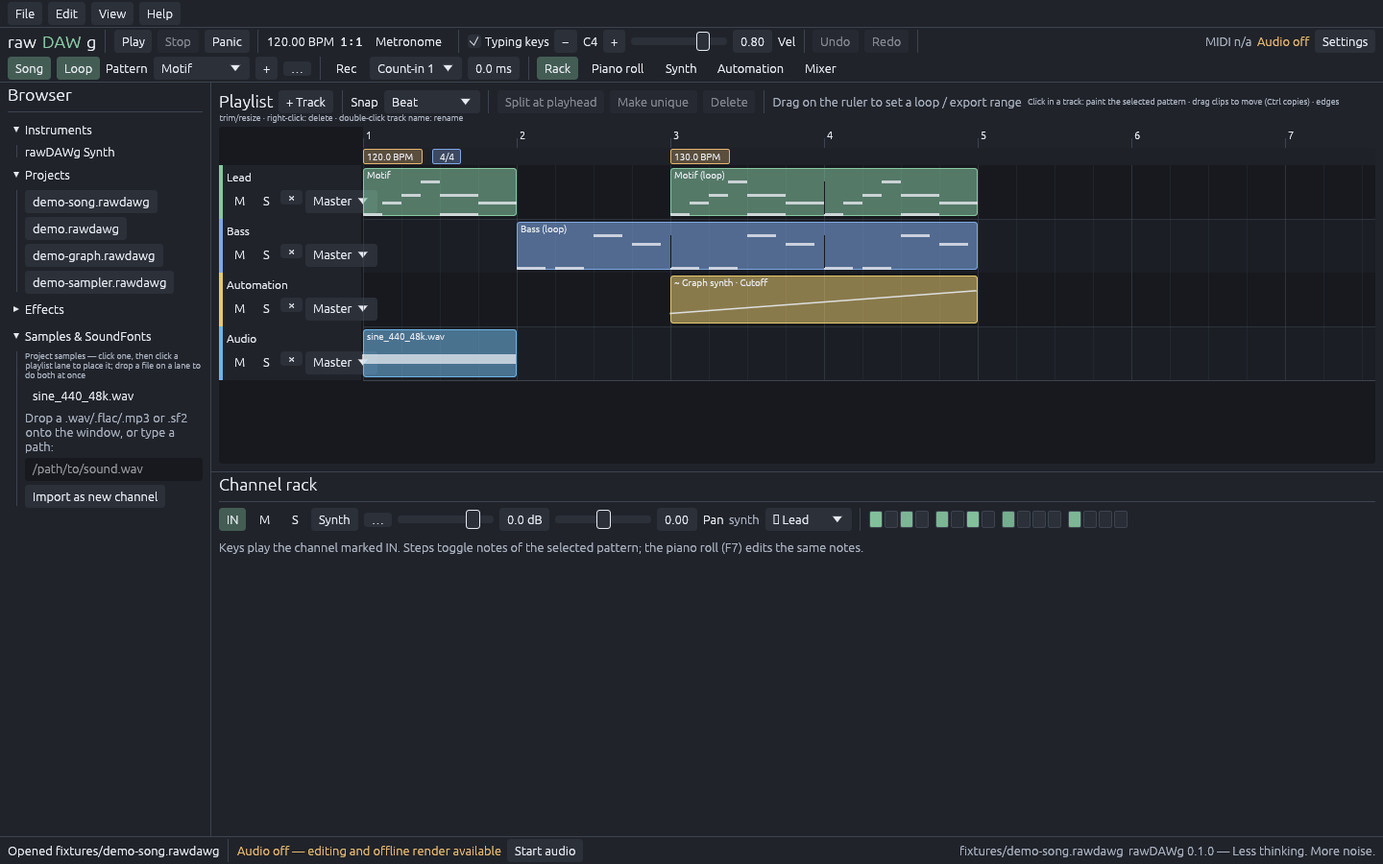
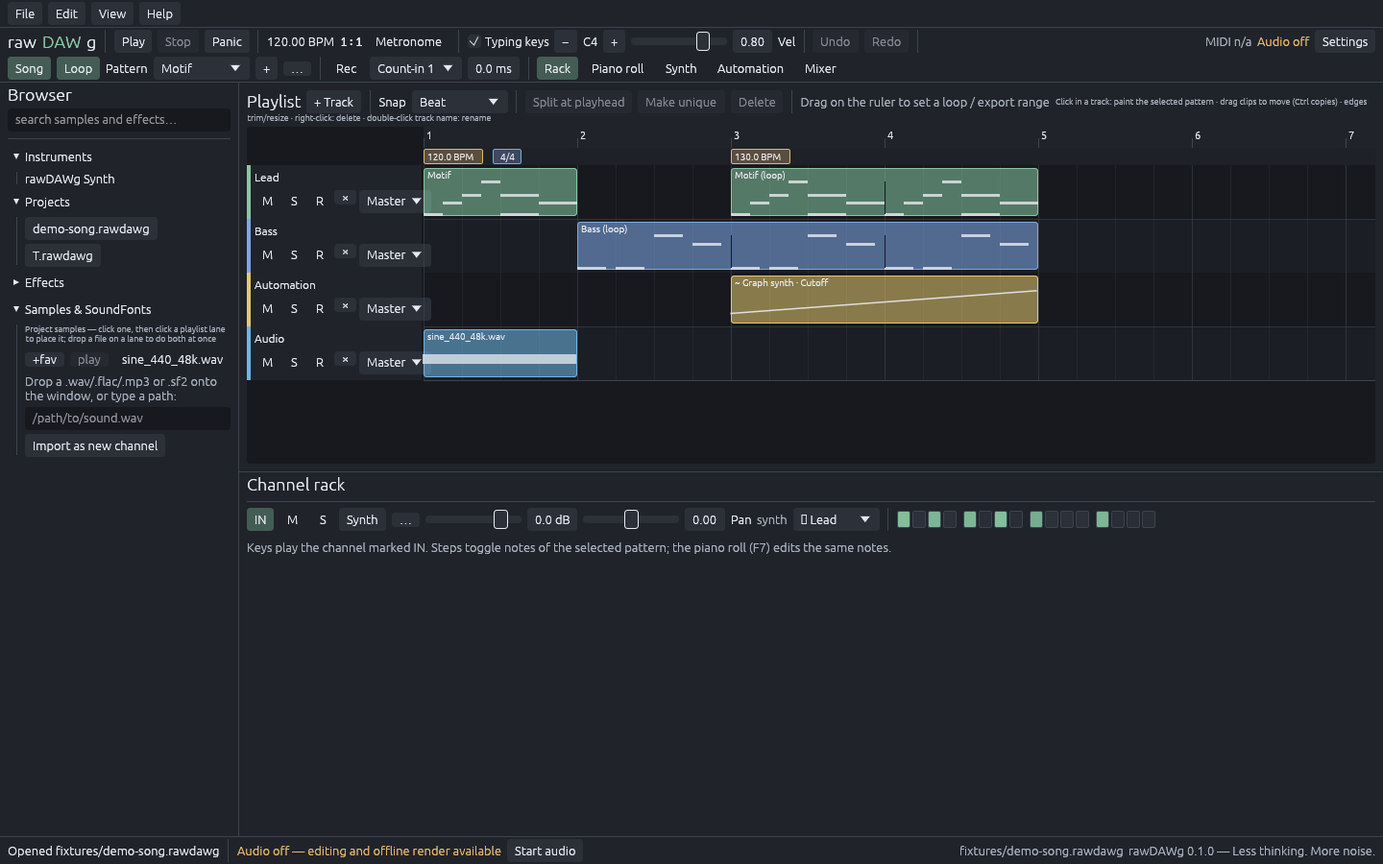
M5 slice 4: browser previews through the engine, search, favorites, effects list; wider playlist headers

diff --git a/crates/app/src/ui/mod.rs b/crates/app/src/ui/mod.rs
@@ -152,6 +152,11 @@ pub(crate) struct App {
     pub selected_channel: Option<ChannelId>,
     pub show_settings: bool,
     pub(crate) export: export::ExportState,
+    /// Browser search text (filters samples and effects).
+    pub browser_search: String,
+    /// Assets handed to the engine for preview: held here until the preview ended so the
+    /// audio thread never drops the last reference.
+    preview_held: Vec<std::sync::Arc<rawdawg_sampler::SampleAsset>>,
     pub editor_view: EditorView,
     /// Main-thread mirrors of native synth state per instance (param edits, commits).
     pub synth_mirrors: HashMap<rawdawg_types::InstanceId, Synth>,
@@ -250,6 +255,8 @@ impl App {
             selected_channel,
             show_settings: false,
             export: export::ExportState::default(),
+            browser_search: String::new(),
+            preview_held: Vec::new(),
             editor_view: EditorView::Synth,
             synth_mirrors: HashMap::new(),
             live_fingerprints: HashMap::new(),
@@ -985,8 +992,23 @@ impl App {
         });
     }
 
+    /// Audition a project sample through the master at −12 dB (browser preview).
+    pub(crate) fn preview_asset(&mut self, id: &rawdawg_types::AssetId) {
+        use rawdawg_audio_engine::AssetResolver;
+        let Some(asset) = self.assets.sample(id) else {
+            self.status_line = "That sample cannot be read".into();
+            return;
+        };
+        self.preview_held.push(asset.clone());
+        if self.preview_held.len() > 8 {
+            self.preview_held.remove(0);
+        }
+        self.send(EngineCommand::PreviewSample { asset, gain: rawdawg_dsp::math::db_to_lin(-12.0) });
+    }
+
     fn browser(&mut self, ui: &mut egui::Ui) {
         ui.heading("Browser");
+        ui.add(egui::TextEdit::singleline(&mut self.browser_search).hint_text("search samples and effects…").desired_width(f32::INFINITY));
         ui.separator();
         egui::CollapsingHeader::new("Instruments").default_open(true).show(ui, |ui| {
             ui.label("rawDAWg Synth").on_hover_text("native.synth — the flagship instrument");
@@ -1003,8 +1025,31 @@ impl App {
                 }
             }
         });
+        let needle = self.browser_search.trim().to_lowercase();
         egui::CollapsingHeader::new("Effects").show(ui, |ui| {
-            ui.label(egui::RichText::new("Native effects arrive in M4").color(theme::TEXT_SECONDARY));
+            ui.label(egui::RichText::new("Click to add to the selected mixer channel (or the master)").color(theme::TEXT_SECONDARY).small());
+            let target = self.mixer.selected.unwrap_or(self.project.mixer.master_id);
+            let mut rows: Vec<(bool, &rawdawg_effects::EffectInfo)> =
+                rawdawg_effects::CATALOG.iter().filter(|f| f.listed).map(|f| (self.prefs.favorites.iter().any(|x| x == f.type_id), f)).collect();
+            rows.sort_by_key(|(fav, _)| !*fav);
+            for (fav, fx) in rows {
+                if !browser_matches(&needle, &[fx.name, fx.family]) {
+                    continue;
+                }
+                ui.horizontal(|ui| {
+                    if ui.small_button(if fav { "fav" } else { "+fav" }).on_hover_text(if fav { "Remove from favorites" } else { "Add to favorites (listed first)" }).clicked() {
+                        toggle_favorite(&mut self.prefs, fx.type_id);
+                    }
+                    if ui.button(fx.name).on_hover_text(fx.description).clicked() {
+                        let mut inst = rawdawg_project::Instance::native(fx.type_id, serde_json::Value::Null);
+                        inst.display_name = fx.name.to_owned();
+                        let iid = inst.id;
+                        self.apply(Command::AddInsert { mixer_id: target, instance: inst, index: None });
+                        self.effect_editor = Some(iid);
+                        self.editor_view = EditorView::Effect;
+                    }
+                });
+            }
         });
         egui::CollapsingHeader::new("Samples & SoundFonts").default_open(true).show(ui, |ui| {
             // project audio assets: click to arm for the playlist, "+ channel" for a sampler
@@ -1017,8 +1062,36 @@ impl App {
                         .small(),
                 );
             }
-            for (id, name) in audio {
+            let previewing = match &self.audio {
+                AudioState::Running(s) => s.handle.status.preview_active.load(std::sync::atomic::Ordering::Relaxed),
+                _ => false,
+            };
+            if !previewing {
+                self.preview_held.clear();
+            }
+            let mut rows: Vec<(bool, rawdawg_types::AssetId, String)> =
+                audio.into_iter().map(|(id, name)| (self.prefs.favorites.iter().any(|x| x == &id.to_string()), id, name)).collect();
+            rows.sort_by_key(|(fav, _, _)| !*fav);
+            for (fav, id, name) in rows {
+                if !browser_matches(&needle, &[&name]) {
+                    continue;
+                }
                 ui.horizontal(|ui| {
+                    if ui.small_button(if fav { "fav" } else { "+fav" }).on_hover_text(if fav { "Remove from favorites" } else { "Add to favorites (listed first)" }).clicked() {
+                        toggle_favorite(&mut self.prefs, &id.to_string());
+                    }
+                    let can_play = matches!(self.audio, AudioState::Running(_));
+                    if previewing {
+                        if ui.small_button("stop").on_hover_text("Stop the preview").clicked() {
+                            self.send(EngineCommand::StopPreview);
+                        }
+                    } else if ui
+                        .add_enabled(can_play, egui::Button::new("play").small())
+                        .on_hover_text("Preview at a safe level (−12 dB) through the master; needs audio on")
+                        .clicked()
+                    {
+                        self.preview_asset(&id);
+                    }
                     let armed = self.playlist.place_asset.as_ref() == Some(&id);
                     if ui.selectable_label(armed, &name).on_hover_text("Arm for placement in the playlist").clicked() {
                         self.playlist.place_asset = if armed { None } else { Some(id.clone()) };
@@ -1506,4 +1579,18 @@ impl Drop for App {
             let _ = self.prefs.save();
         }
     }
+}
+
+/// Case-insensitive search over the given fields (empty needle matches everything).
+pub(crate) fn browser_matches(needle: &str, fields: &[&str]) -> bool {
+    needle.is_empty() || fields.iter().any(|f| f.to_lowercase().contains(needle))
+}
+
+pub(crate) fn toggle_favorite(prefs: &mut crate::prefs::Preferences, key: &str) {
+    if let Some(i) = prefs.favorites.iter().position(|x| x == key) {
+        prefs.favorites.remove(i);
+    } else {
+        prefs.favorites.push(key.to_owned());
+    }
+    let _ = prefs.save();
 }

diff --git a/crates/audio-engine/src/engine.rs b/crates/audio-engine/src/engine.rs
@@ -51,6 +51,8 @@ pub struct EngineStatus {
     pub mixer_peak_r: Vec<AtomicF32>,
     /// Count-in frames still to go (0 = none).
     pub count_in_frames: AtomicI64,
+    /// A browser preview is sounding.
+    pub preview_active: AtomicBool,
     /// Master output (mono sum) for the live scope.
     pub scope: rawdawg_rt::ScopeBuffer,
 }
@@ -83,6 +85,7 @@ impl Default for EngineStatus {
             mixer_peak_l: (0..128).map(|_| AtomicF32::new(0.0)).collect(),
             mixer_peak_r: (0..128).map(|_| AtomicF32::new(0.0)).collect(),
             count_in_frames: AtomicI64::new(0),
+            preview_active: AtomicBool::new(false),
             metronome: AtomicBool::new(false),
             scope: rawdawg_rt::ScopeBuffer::new(4096),
         }
@@ -199,6 +202,8 @@ pub struct Engine {
     /// smooths the block cadence difference between the input and output callbacks.
     monitor: Option<rawdawg_rt::QueueConsumer<rawdawg_audio_io::capture::CaptureBlock>>,
     monitor_target: Option<usize>,
+    /// Browser preview: the asset, its read position (source frames) and gain.
+    preview: Option<(std::sync::Arc<rawdawg_sampler::SampleAsset>, f64, f32)>,
     monitor_ring: AudioBuffer,
     monitor_read: usize,
     monitor_write: usize,
@@ -248,6 +253,7 @@ impl Engine {
             stems: None,
             monitor: None,
             monitor_target: None,
+            preview: None,
             monitor_ring: AudioBuffer::new(2, MONITOR_RING),
             monitor_read: 0,
             monitor_write: 0,
@@ -397,6 +403,15 @@ impl Engine {
                     self.monitor_read = 0;
                     self.monitor_write = 0;
                 }
+            }
+            EngineCommand::PreviewSample { asset, gain } => {
+                // replacing drops our clone only (the sender still holds one): no deallocation
+                self.preview = Some((asset, 0.0, gain));
+                self.status.preview_active.store(true, Ordering::Relaxed);
+            }
+            EngineCommand::StopPreview => {
+                self.preview = None;
+                self.status.preview_active.store(false, Ordering::Relaxed);
             }
             EngineCommand::SetMetronome(b) => {
                 self.metronome_enabled = b;
@@ -692,6 +707,31 @@ impl Engine {
                 dl[i] += l;
                 dr[i] += r;
             }
+        }
+    }
+
+    /// Browser preview: the asset plays once through the master output at its own rate
+    /// (converted), before protection. Ends itself; no allocation.
+    fn preview_block(&mut self, l: &mut [f32], r: &mut [f32]) {
+        let Some((asset, pos, gain)) = self.preview.as_mut() else { return };
+        let step = f64::from(asset.sample_rate) / self.sample_rate.as_f64();
+        let total = asset.frames() as f64;
+        let stereo = asset.is_stereo();
+        let mut done = false;
+        for i in 0..l.len() {
+            if *pos >= total {
+                done = true;
+                break;
+            }
+            let a = asset.read(0, *pos) * *gain;
+            let b = if stereo { asset.read(1, *pos) * *gain } else { a };
+            l[i] += a;
+            r[i] += b;
+            *pos += step;
+        }
+        if done {
+            self.preview = None;
+            self.status.preview_active.store(false, Ordering::Relaxed);
         }
     }
 
@@ -1020,6 +1060,7 @@ impl Engine {
         }
         self.count_in_block(&mut out_l[..frames], &mut out_r[..frames]);
         self.metronome_block(&mut out_l[..frames], &mut out_r[..frames]);
+        self.preview_block(&mut out_l[..frames], &mut out_r[..frames]);
         let plan = &mut self.plan;
         if plan.master_protection {
             plan.master_limiter.process(&mut out_l[..frames], &mut out_r[..frames]);

diff --git a/crates/audio-engine/tests/engine.rs b/crates/audio-engine/tests/engine.rs
@@ -1037,3 +1037,49 @@ fn flac_export_decodes_back_exactly_and_stems_share_the_render_length() {
     assert_eq!(peak(&empty.channels[0]), 0.0, "an unused bus exports a silent stem of full length");
     let _ = std::fs::remove_dir_all(&root);
 }
+
+#[test]
+fn browser_preview_plays_an_asset_once_at_its_gain_and_can_be_stopped() {
+    use std::sync::atomic::Ordering;
+    let limits = EngineLimits::DEFAULT;
+    let p = project_with_notes(&[]);
+    let (mut engine, mut handle) = Engine::new(SampleRate(48_000), 256, &limits);
+    engine.install_plan(compile(&p, 1, 256, &limits, &Default::default(), &rawdawg_audio_engine::NoAssets).unwrap().plan);
+    // a 0.25 s 1 kHz tone at 96 kHz: played at 48 kHz it must still be 1 kHz (rate converted)
+    let tone: Vec<f32> = (0..24_000).map(|i| (std::f64::consts::TAU * 1000.0 * i as f64 / 96_000.0).sin() as f32 * 0.5).collect();
+    let asset = rawdawg_sampler::SampleAsset::mono("tone", 96_000, tone);
+    let held = asset.clone();
+    assert!(handle.send(EngineCommand::PreviewSample { asset, gain: 0.25 }).is_ok());
+    let mut out = Vec::new();
+    let mut l = vec![0.0f32; 256];
+    let mut r = vec![0.0f32; 256];
+    for _ in 0..80 {
+        engine.render_block(&mut l, &mut r);
+        out.extend_from_slice(&l);
+    }
+    assert!(!handle.status.preview_active.load(Ordering::Relaxed), "preview ended by itself (0.25 s < 80 blocks)");
+    assert!((dominant_frequency(&out[..8192], 48_000.0) - 1000.0).abs() < 2.0, "rate converted");
+    let pk = peak(&out[..12_000]);
+    assert!((pk - 0.125).abs() < 0.01, "0.5 × gain 0.25: {pk}");
+    assert_eq!(peak(&out[13_000..]), 0.0, "silence after the asset ends (12 000 output frames)");
+    // stop early
+    assert!(handle.send(EngineCommand::PreviewSample { asset: held.clone(), gain: 0.25 }).is_ok());
+    engine.render_block(&mut l, &mut r);
+    assert!(handle.status.preview_active.load(Ordering::Relaxed));
+    assert!(peak(&l) > 0.1);
+    assert!(handle.send(EngineCommand::StopPreview).is_ok());
+    engine.render_block(&mut l, &mut r);
+    assert!(!handle.status.preview_active.load(Ordering::Relaxed));
+    // the master limiter's 1 ms lookahead still carries the previous block's tail: the next block is silent
+    engine.render_block(&mut l, &mut r);
+    assert_eq!(peak(&l), 0.0);
+    // steady state with a preview running is allocation-free
+    assert!(handle.send(EngineCommand::PreviewSample { asset: held.clone(), gain: 0.25 }).is_ok());
+    let (_, allocs) = measure_rt(|| {
+        for _ in 0..8 {
+            engine.render_block(&mut l, &mut r);
+        }
+    });
+    assert_eq!(allocs, 0);
+    drop(held);
+}

diff --git a/crates/app/src/ui/tests.rs b/crates/app/src/ui/tests.rs
@@ -532,3 +532,29 @@ fn audio_takes_are_aligned_placed_as_clips_and_recovered_after_a_crash() {
     assert!(h.app.plan_error.is_none(), "{:?}", h.app.plan_error);
     let _ = std::fs::remove_dir_all(&root);
 }
+
+#[test]
+fn browser_search_filters_and_favorites_sort_first_and_effects_add_to_the_selected_channel() {
+    assert!(super::browser_matches("", &["anything"]));
+    assert!(super::browser_matches("rev", &["Reverb", "Reverb family"]));
+    assert!(!super::browser_matches("delay", &["Reverb"]));
+    let mut h = Harness::new(Some("../../fixtures/demo-sampler.rawdawg"));
+    let asset = h.app.project.assets.iter().find(|a| a.kind == rawdawg_project::AssetKind::Audio).map(|a| a.id.to_string()).unwrap();
+    super::toggle_favorite(&mut h.app.prefs, &asset);
+    assert!(h.app.prefs.favorites.contains(&asset));
+    super::toggle_favorite(&mut h.app.prefs, &asset);
+    assert!(!h.app.prefs.favorites.contains(&asset));
+    // the browser draws with a search term without panicking and the effect list adds inserts
+    h.app.browser_search = "verb".into();
+    h.frame(vec![]);
+    let master = h.app.project.mixer.master_id;
+    let before = h.app.project.mixer_channel(master).unwrap().inserts.len();
+    let mut inst = rawdawg_project::Instance::native(rawdawg_effects::reverb::TYPE_ID, serde_json::Value::Null);
+    inst.display_name = "Reverb".into();
+    h.app.apply(rawdawg_project::Command::AddInsert { mixer_id: master, instance: inst, index: None });
+    assert_eq!(h.app.project.mixer_channel(master).unwrap().inserts.len(), before + 1);
+    // preview without audio: a clear status, nothing held
+    let id = h.app.project.assets.iter().find(|a| a.kind == rawdawg_project::AssetKind::Audio).map(|a| a.id.clone()).unwrap();
+    h.app.preview_asset(&id);
+    assert!(h.app.plan_error.is_none());
+}

diff --git a/crates/audio-engine/src/commands.rs b/crates/audio-engine/src/commands.rs
@@ -25,6 +25,14 @@ pub enum EngineCommand {
     /// Route the live audio input (monitor queue) into a mixer channel by plan index;
     /// `None` switches monitoring off (the default).
     SetMonitor(Option<usize>),
+    /// Audition a decoded asset through the master (browser preview) at a linear gain;
+    /// replaces any running preview. The sender keeps its own `Arc` until the preview
+    /// ended so the RT thread never drops the last reference.
+    PreviewSample {
+        asset: std::sync::Arc<rawdawg_sampler::SampleAsset>,
+        gain: f32,
+    },
+    StopPreview,
     /// Live event (typing keyboard, MIDI, mouse) routed to a channel's instrument.
     /// `frame` is ignored and replaced by the block offset derived from the timestamp.
     Live {

diff --git a/crates/app/src/prefs.rs b/crates/app/src/prefs.rs
@@ -31,6 +31,9 @@ pub struct Preferences {
     /// Route the live input into the mixer (off by default; beware of feedback).
     #[serde(default)]
     pub monitor_input: bool,
+    /// Browser favorites: asset ids and effect type ids.
+    #[serde(default)]
+    pub favorites: Vec<String>,
 }
 
 fn default_count_in() -> u32 {
@@ -57,6 +60,7 @@ impl Default for Preferences {
             input_device_id: None,
             input_channels: rawdawg_audio_io::capture::InputChannels::default(),
             monitor_input: false,
+            favorites: Vec::new(),
         }
     }
 }

diff --git a/crates/app/src/ui/playlist.rs b/crates/app/src/ui/playlist.rs
@@ -14,7 +14,7 @@ use rawdawg_types::{AssetId, ClipId, PatternId, TrackId};
 use std::collections::{HashMap, HashSet};
 use std::sync::Arc;
 
-const HEADER_W: f32 = 150.0;
+const HEADER_W: f32 = 184.0;
 const RULER_H: f32 = 22.0;
 const MARKER_H: f32 = 18.0;
 const TRACK_H: f32 = 56.0;

diff --git a/PROGRESS.md b/PROGRESS.md
@@ -4,7 +4,7 @@ Live checkpoint for the implementation agent. Facts only; see `docs/verification
 
 ## Current state
 
-- **Milestone:** M0 complete; M1 implemented (hardware gates open); M2 checkpoint reached; M3 checkpoint reached 2026-11-25; **M4 (mixer and full native effect suite) checkpoint reached 2026-11-25**: automated gates T-FX (all named families/modes, every preset × impulse/sweep/step/chord, random racks), T-GRAPH/T-RT subsets and E2E-05 (headless subset) pass; manual listening/GUI/hardware gates open. M5 in progress (slice 1: audio clip playback/placement/editing; slice 2: export WAV/FLAC/MIDI/stems with progress/cancel, SMF import; slice 3: audio recording with capture queues, disk writer, journal/recovery, latency alignment). M2 notes: — sculpting canvas with live table handoff, all six generator types, unison, LFOs/mod matrix, randomize/chaos/locks, evolution/breed, XY morph (compatible structures), factory presets + `.rawdawgpreset`, sampler and SF2. Modular graph with bounded expression nodes (SYN-07) and the motion-frame editor landed 2026-11-25 (see below). **M2 checkpoint reached** (automated gates T-OSC/VOICE/SCULPT/MUTATE/MORPH/GRAPH/SAMPLER subsets pass; listening/GUI gates open). Carried into later milestones: incompatible-topology morph crossfade (bounded parallel corner instances), gesture-to-automation recording (M3 lanes), sampler/FFT nodes inside the graph. See "M2 additions" and "Open gates".
+- **Milestone:** M0 complete; M1 implemented (hardware gates open); M2 checkpoint reached; M3 checkpoint reached 2026-11-25; **M4 (mixer and full native effect suite) checkpoint reached 2026-11-25**: automated gates T-FX (all named families/modes, every preset × impulse/sweep/step/chord, random racks), T-GRAPH/T-RT subsets and E2E-05 (headless subset) pass; manual listening/GUI/hardware gates open. M5 in progress (slice 1: audio clip playback/placement/editing; slice 2: export WAV/FLAC/MIDI/stems with progress/cancel, SMF import; slice 3: audio recording with capture queues, disk writer, journal/recovery, latency alignment; slice 4: browser previews/search/favorites/effects). M2 notes: — sculpting canvas with live table handoff, all six generator types, unison, LFOs/mod matrix, randomize/chaos/locks, evolution/breed, XY morph (compatible structures), factory presets + `.rawdawgpreset`, sampler and SF2. Modular graph with bounded expression nodes (SYN-07) and the motion-frame editor landed 2026-11-25 (see below). **M2 checkpoint reached** (automated gates T-OSC/VOICE/SCULPT/MUTATE/MORPH/GRAPH/SAMPLER subsets pass; listening/GUI gates open). Carried into later milestones: incompatible-topology morph crossfade (bounded parallel corner instances), gesture-to-automation recording (M3 lanes), sampler/FFT nodes inside the graph. See "M2 additions" and "Open gates".
 - **Environment used:** Ubuntu 22.04 (WSL2, WSLg), Rust 1.99.0, 16 cores. Audio output available through WSLg's PulseAudio bridge via ALSA (`Default Audio Device`), which is *not* a real Ubuntu desktop/hardware device. No Windows machine, no display screenshots captured, no MIDI hardware, no independent plugin hosts or validators installed.
 - **Build label:** intermediate build; not a release candidate.
 
@@ -14,7 +14,7 @@ Live checkpoint for the implementation agent. Facts only; see `docs/verification
 |---|---|
 | `cargo fmt --all -- --check` | exit 0 |
 | `cargo clippy --workspace --all-targets -- -D warnings` | exit 0 (after lint fixes; see git diff) |
-| `cargo test --workspace` (2026-11-25, M5 slice 3) | 316 tests, 0 failures |
+| `cargo test --workspace` (2026-11-25, M5 slice 4) | 318 tests, 0 failures |
 | `cargo build --workspace --release --locked` | exit 0 (3 m 08 s); `target/release/rawdawg`, `librawdawg_clap.so`, `librawdawg_vst3.so` |
 | `cargo xtask fixtures` | wrote `fixtures/demo.rawdawg` + 4 WAVs |
 | `cargo xtask verify --suite all` (2026-11-25, M5 slice 2) | HL-01..12 + E2E-02 + E2E-04 + E2E-05 (headless subsets) PASS, PL-01..02 PASS, PL-03/04/05 BLOCKED, HW-01 BLOCKED, GUI-01 BLOCKED → `target/verification/verify-all.json` |
@@ -247,6 +247,15 @@ Commits 88cc71d…3c2a26d. 202 automated tests pass (`cargo test --workspace`), 
 - Evidence on this machine (WSLg PulseAudio bridge, **not** real hardware): `rawdawg --capture-smoke` → "Default Audio Device (2 ch) at 48000 Hz: 96 callbacks, 49152 frames, 190 blocks received, 0 dropped, peak L 0.020 R 0.020, reported input latency 30.4 ms, failed: false" (exit 0). HW-01 (real devices, loopback calibration on Windows and Ubuntu) stays BLOCKED.
 - Tests: `capture::tests` (contiguous stamps across callbacks, channel mapping, peaks, overflow counted while the stream clock keeps running), `capture_writer::tests` (ramp written exactly, mono feeds both channels, journal; gap of 768 frames → silence and lost count; finished takes are not recovery candidates; a forgotten writer leaves an unfinished journal whose WAV header is rebuilt from the data), app `audio_takes_are_aligned_placed_as_clips_and_recovered_after_a_crash` (alignment arithmetic, mock take → clip at bar 2 with three beats and the asset imported, files removed, one undo; crashed take recovered at beat 3 of bar 1).
 - Not done: loopback latency calibration UI (offset is manual), per-track input assignment beyond "the input device" (one input pair at a time), input meters outside Settings, >4 GB takes (RF64) — documented limit: takes are 32-bit float WAV, ≤ 4 GB ≈ 3 h stereo at 48 kHz.
+
+### Slice 4 — browser: previews, search, favorites, effects (CORE-06)
+
+318 automated tests pass, clippy clean.
+
+- Engine: `EngineCommand::PreviewSample { asset, gain }` / `StopPreview` play a decoded asset once through the master output (rate-converted, before protection), `EngineStatus::preview_active`; the app keeps its own `Arc`s of previewed assets until the preview ended, so the audio thread never drops the last reference (allocation-free test).
+- Browser: search box filtering samples and effects (`browser_matches`), favorites (`Preferences::favorites`, asset ids and effect type ids, listed first), per-sample **play/stop** at −12 dB (needs audio on), the **Effects** section now lists the catalogue and adds the clicked effect to the selected mixer channel (or the master) and opens its editor. Playlist header widened for M/S/R/×/routing. Screenshot `m5-browser.png`.
+- Tests: engine `browser_preview_plays_an_asset_once_at_its_gain_and_can_be_stopped` (1 kHz at 96 kHz source plays at 1 kHz, 0.5 × −12 dB level, ends by itself, stop, allocation-free); UI `browser_search_filters_and_favorites_sort_first_and_effects_add_to_the_selected_channel`.
+- Open for CORE-06: presets stay in the synth panel's own browser (search/favorites there); drag-and-drop from the browser onto tracks (click-to-arm + lane click covers placement).
 
 ## M1 additions (2026-11-25)
 

diff --git a/docs/verification/requirements.md b/docs/verification/requirements.md
@@ -17,7 +17,7 @@ Build under test: workspace at the commit recorded in `PROGRESS.md`; Rust 1.99.0
 | CORE-03 | PASS (automated incl. UI input tests; listening/feel manual open) | M3 | Keyboard ruler, grid, draw/select/move/resize/delete, box selection, duplicate, clipboard, snap incl. triplets, transpose, velocity lane, scale highlight/snap, chord insertion, quantize with strength + preview. `ui/tests.rs` drives the real layout with synthesized mouse/keys; helper unit tests; E2E-02. |
 | CORE-04 | PASS (automated) | M3/M5 | Tracks, pattern clips (paint/move/copy/split/trim/resize/loop/make unique/mute), automation clips, audio clips (placement from the browser or by file drop, playback through the track's mixer channel with gain, fades and playback rate, trims in source frames, waveform thumbnails), track mute/solo, zoom/scroll, loop range, snap; UI input tests and E2E-02/HL-12. Manual GUI pass open. |
 | CORE-05 | PARTIAL | M4 | Channels/buses/master, gain/pan/mute/solo, peak-hold meters with clip indicators, insert chains (reorder/bypass/mix), pre/post sends, sidechain inputs, parallel paths, longest-path latency compensation (engine tests: alignment within one frame, bypass alignment, send semantics), feedback rejected by validation (sends and outputs are DAG edges). Open: insert drag-reorder, GUI-01 manual. Screenshot `m4-mixer.png`. Solo keeps sidechain dependencies (E2E-05). |
-| CORE-06 | PARTIAL | M3/M5 | Browser lists instruments, recent projects, project samples (arm → place in the playlist, drop files on lanes or the window) and the import field. Open: effects/presets listing, search, favorites, audio preview, drag-and-drop from the browser. |
+| CORE-06 | PASS (automated) | M3/M5 | Browser lists instruments, recent projects, the effect catalogue (click adds to the selected mixer channel), project samples (preview at −12 dB through the master, arm → place in the playlist, drop files on lanes or the window), search and favorites; presets browsed in the synth panel (search/favorites/audition). Native asset paths only. Manual GUI pass open. |
 | CORE-07 | PARTIAL | M0/M3 | Shared undo/redo for all persistent edits incl. gestures (move/resize/velocity/quantize/automation previews), mutations, routing; exact undo verified in tests and E2E-02. Save/open; new/save-as, dirty status and autosave/recovery: M6. |
 | CORE-08 | PARTIAL | M3 | Curves with step/linear points, editor, automation clips, song-mode playback with 64-frame sampling and chase (engine tests, HL-11), touch/write capture of mouse parameter gestures, MIDI learn, morph gesture → automation. Open: mixer/effect targets (M4), capture of MIDI-driven changes, pattern-mode automation. |
 | IO-01 | PARTIAL | M1/M3 | midir inputs with enable/hotplug/disconnect release, notes/velocity/channel/bend/CC/sustain/pressure routed live; MIDI learn with per-device mappings (`ui/recording.rs`); recording through the engine echo (`record.rs`). Hardware session: BLOCKED (MIDI-01). |

diff --git a/docs/USER_GUIDE.md b/docs/USER_GUIDE.md
@@ -54,6 +54,8 @@ Tick **Advanced** in the synth panel and open **Modular graph**. The **voice gra
 
 **Automation**: right-click any parameter → "Create automation clip". Curves live on an Automation track and play in Song mode; the Automation view edits points (click adds, drag moves, right-click deletes; per point Linear or Step) in the parameter's own units. Modes: Read plays, Touch writes while you hold a control during playback, Write latches the last value until you stop. The morph pad's "Write gesture as automation" bakes a recorded XY movement into curves. **MIDI learn** is in the same context menu: pick it, move a controller, done.
 
+**Browser**: the search box filters samples and effects; mark anything *+fav* to keep it at the top. *play* auditions a sample at a safe level through the master (audio must be on); clicking an effect adds it to the mixer channel selected in the Mixer view.
+
 **Audio clips**: drop a `.wav`, `.flac` or `.mp3` onto a playlist lane and it becomes an audio clip right there (dropped anywhere else it becomes a sampler channel instead). Samples already in the project are listed in the browser: click one, then click a lane to place it (Esc cancels). Audio clips play in Song mode into the mixer channel chosen in the track header (Master by default), so inserts and sends apply to them like to anything else. Drag the right edge to shorten a clip, the left edge to trim its start; right-click it for gain and fade in/out. Tempo changes move clips but never stretch them.
 
 ## Mixer and effects
